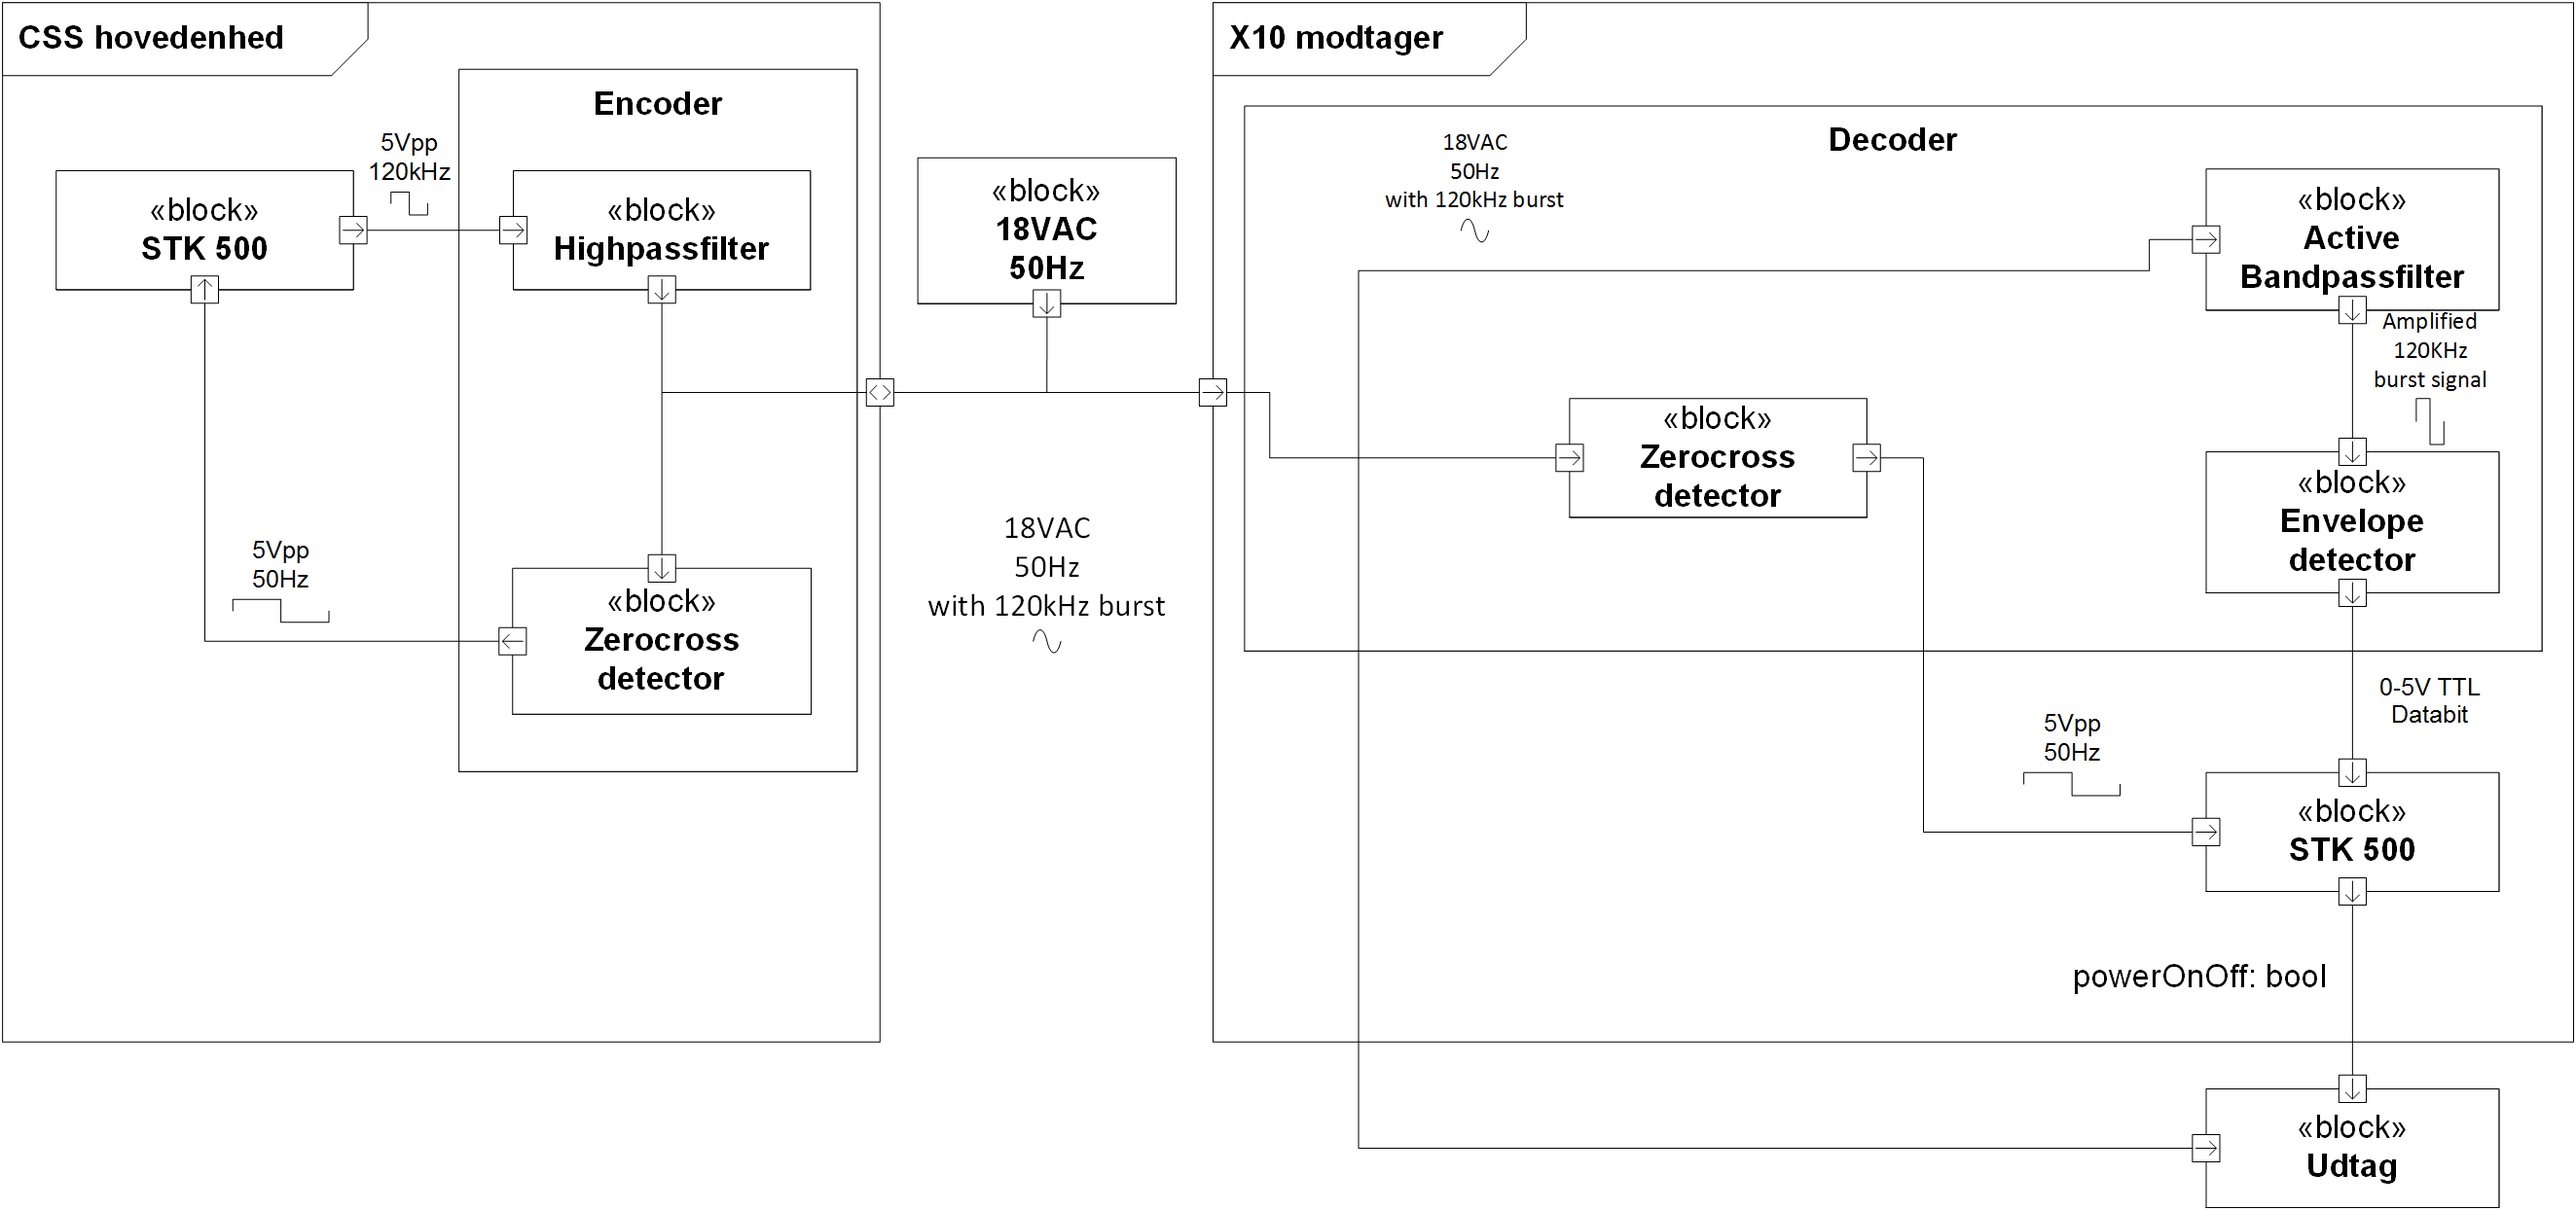
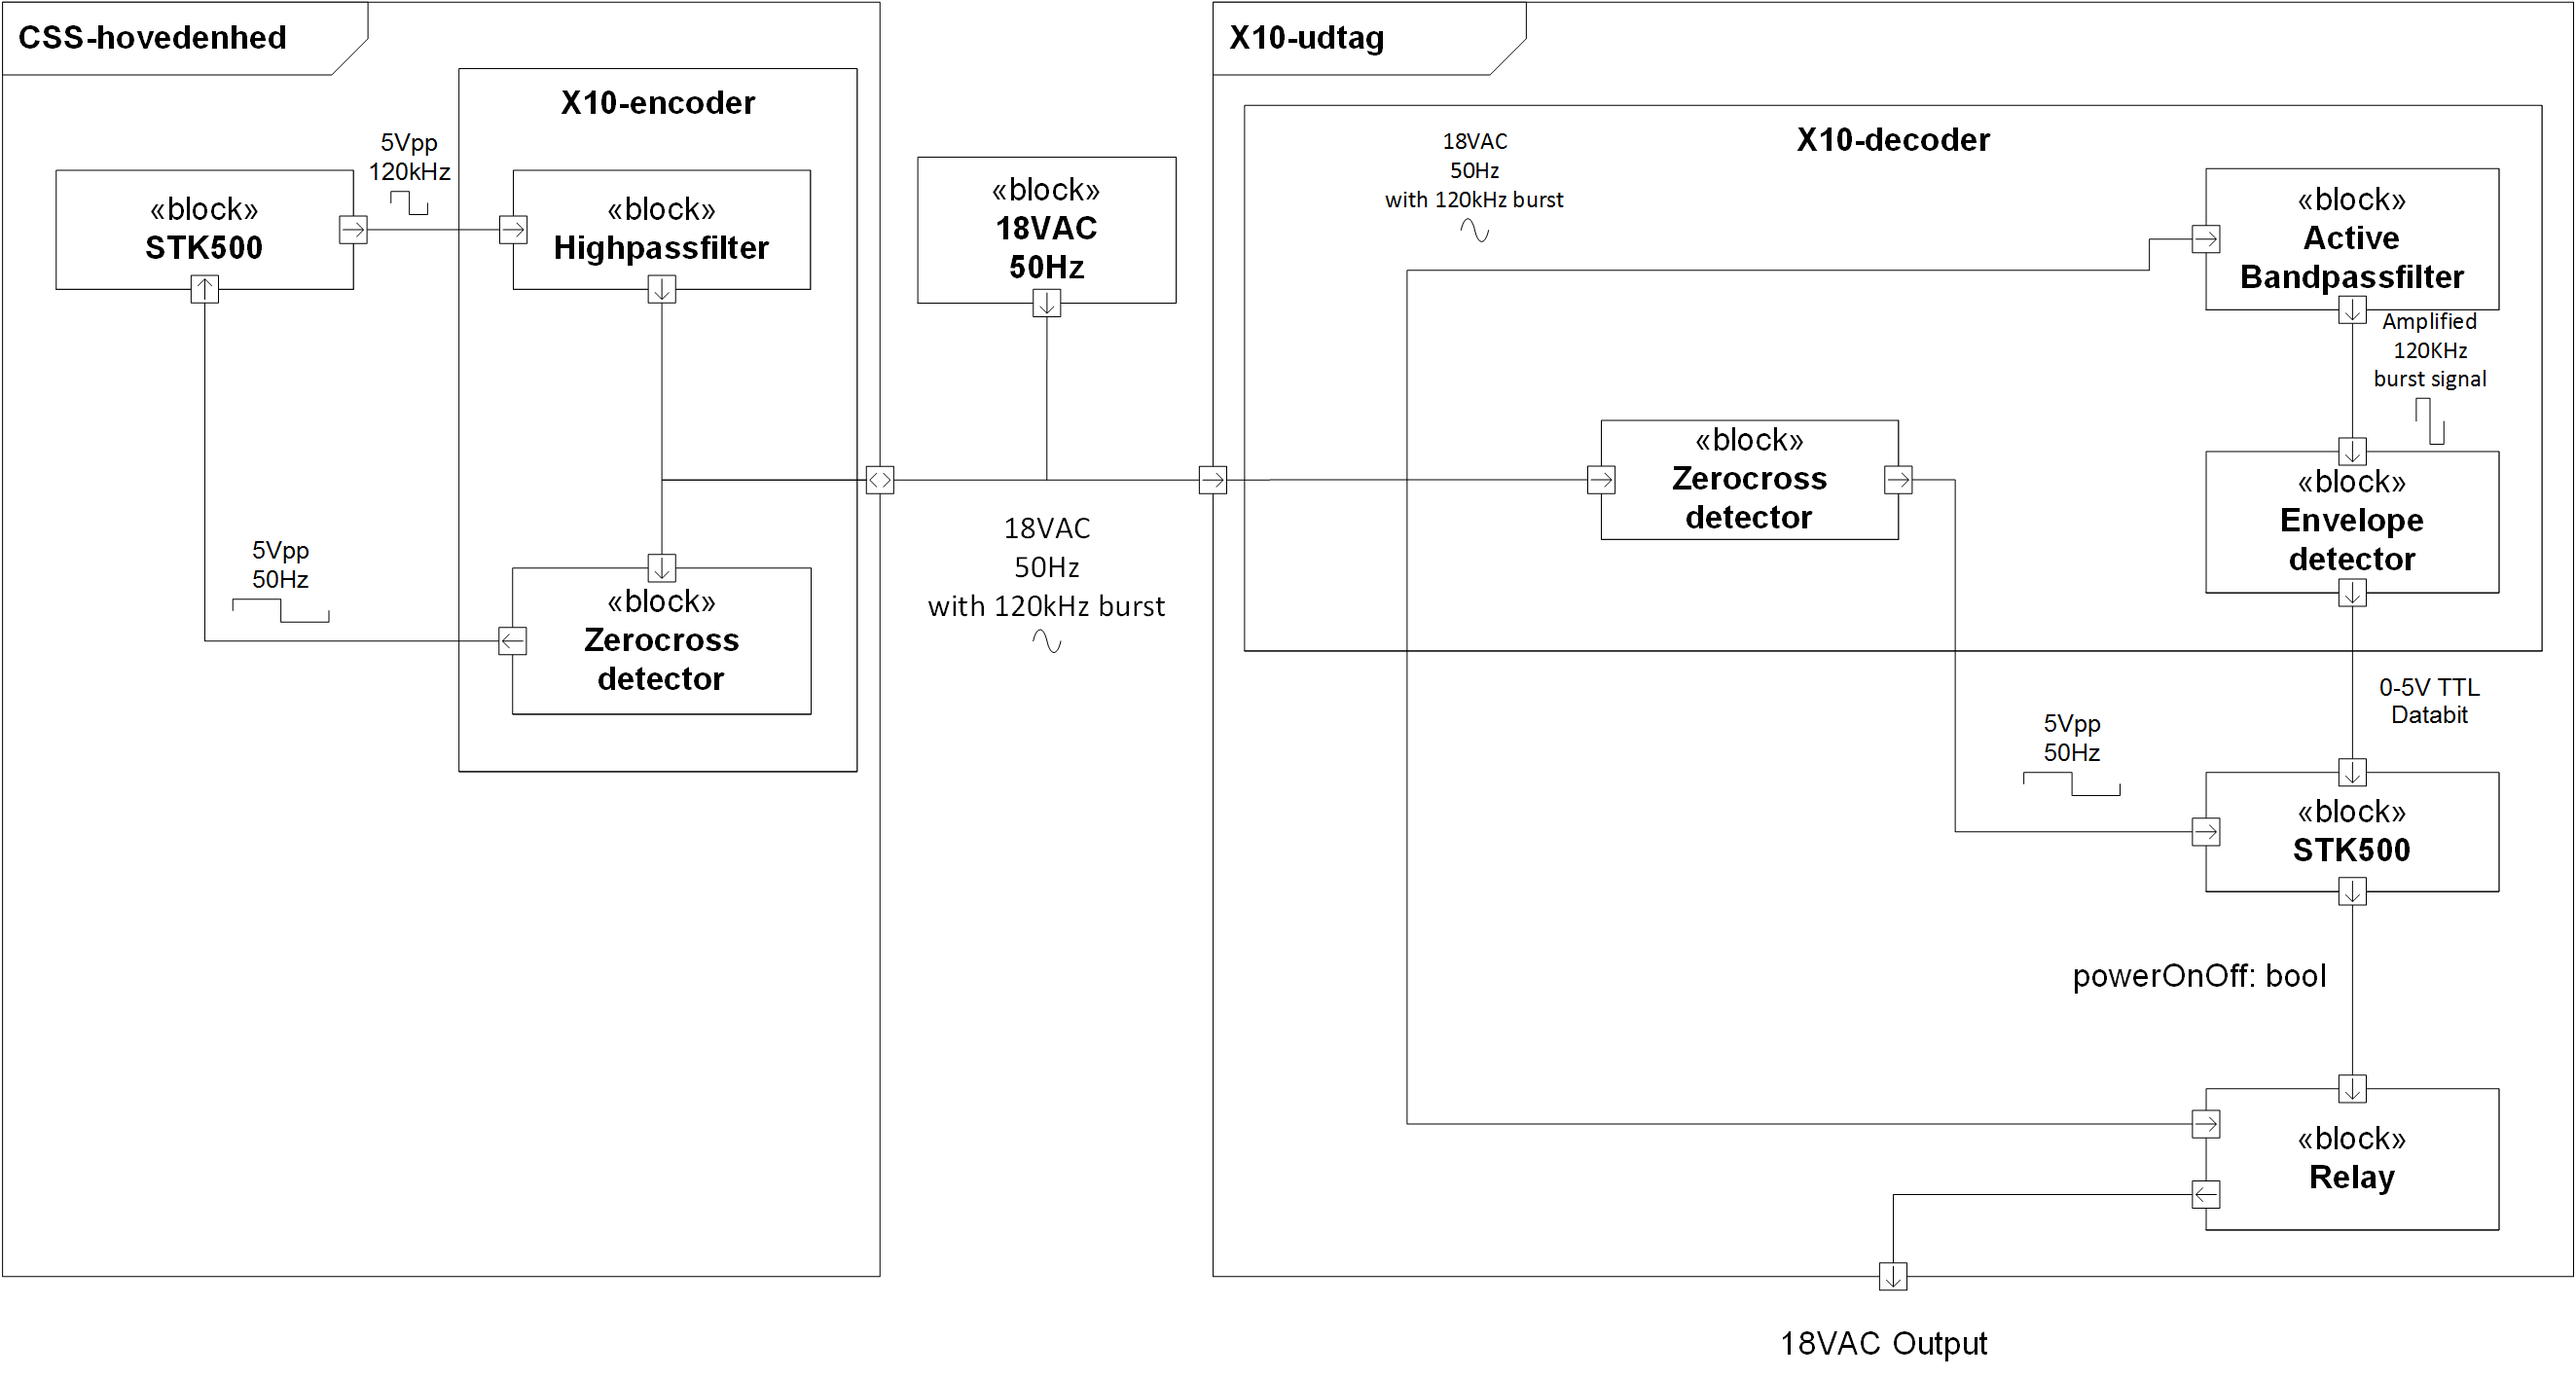
Rettelser til encoder/X10 udtag

diff --git a/Projektdokumentation/filer/HWdesign.tex b/Projektdokumentation/filer/HWdesign.tex
@@ -3,7 +3,7 @@ Generelt kan det overordnede hardware design beskrives som noget elektronik der 
 
 
 \section{X10-encoder}
-X10-encoderen, er den del af systemet der genererer X10-bitstrømmen og sender den ud på det eksisterende el-net. Et højpasfilter der lader 120 kHz burst passere mens det blokerer for nettets 50 Hz signal, udgør sammen med en zero crossing detector hele hardwaren for X10-encoderen.
+X10-encoderen, er en del af CSS hovedenheden. CSS hovedenheden genererer X10-bitstrømmen og sender den ud på det eksisterende el-net. Encoderen består af et højpasfilter der lader 120 kHz burst passere mens det blokerer for nettets 50 Hz signal, og en zero crossing detector der detekterer nulgennemgang.
 
 \begin{figure}[H]
 	\centering
@@ -62,7 +62,7 @@ Med den beregnede modstandsværdi er det endelige schematic færdigt som det ses
 
 \newpage
   
-\subsection{Zero Crossing Detector}
+\subsection{Zero Crossing Detector(SK)}
 \begin{figure}[htb]
   \begin{minipage}{0.45\textwidth}
     \centering
@@ -192,7 +192,7 @@ Med alle de beregnede komponentværdier kan det endelige schematic designes. Det
 
 \newpage
 
-\subsection{Envelope Detector}
+\subsection{Envelope Detector(SK)}
 
 \begin{figure}[htbp]
 	\centering
@@ -240,7 +240,7 @@ En åben kontakt vil give LAV(0V) og en lukket kontakt vil resultere i HØJ(5V)
 \end{figure}
 
 \newpage
-\subsection{Komponentliste}
+\subsection{Komponentliste (SK)}
 
 De efterfølgende tabeller viser en oversigt over hvilke komponenter der er anvendt, den beskriver navn, type og størrelse på hver enkelt komponent\footnote{Datablade for komponenterne kan findes i mappen "Datablade" på CD'en}. 
 

diff --git a/Projektrapport/filer/HWdesign.tex b/Projektrapport/filer/HWdesign.tex
@@ -5,7 +5,7 @@ Generelt kan det overordnede hardware design beskrives som noget elektronik der 
 
 
 \section{Encoder}
-Encoderen, også omtalt som senderenhed, er den del af systemet der genererer X10 kommandoen og sender den ud på det eksisterende el-net. Et højpasfilter der lader 120 kHz burst passere mens det blokerer for nettets 50 Hz signal, udgør sammen med en zero crossing detector hele hardwaren for encoderen.
+X10-encoderen, er en del af CSS hovedenheden. CSS hovedenheden genererer X10-bitstrømmen og sender den ud på det eksisterende el-net. Encoderen består af et højpasfilter der lader 120 kHz burst passere mens det blokerer for nettets 50 Hz signal, og en zero crossing detector der detekterer nulgennemgang.
 
 \begin{figure}[htbp]
 	\centering
@@ -51,7 +51,7 @@ Kondensatoren forudbestemmes for beregningerne til en værdi på 0,1 nF.
 
 \newpage
   
-\subsection{Zero Crossing Detector}
+\subsection{Zero Crossing Detector (SK)}
 \begin{figure}[htb]
   \begin{minipage}{0.45\textwidth}
     \centering
@@ -109,7 +109,7 @@ Båndpasfilteret har til opgave at filtrere alle signaler med frekvenser over og
 
 Da vi ønsker at forstærke 120 kHz signalet, designes højpasfilteret således at knækfrekvensen udregnes til 110 kHz, og for lavpasfilteret beregnes en knækfrekvens på 130 kHz.
 
-\subsection{Envelope Detector}
+\subsection{Envelope Detector (SK)}
 \begin{figure}[htbp]
 	\centering
 	\includegraphics[width=0.70\textwidth]{billeder/HWdesign/ED_MV.png}

diff --git a/Projektrapport/filer/systemarkitektur.tex b/Projektrapport/filer/systemarkitektur.tex
@@ -31,7 +31,7 @@ BDD diagrammet giver et overblik over hvad det samlede system består af. Vi ser
 \label{lab:Plantegning over HW}
 \raggedright
 \end{figure}
-Plantegningen over HW giver et overblik over hvordan CSS hovedenheden og X10 modtager er forbundet, samt hvilken type signaler der bliver sendt imellem dem.
+Plantegningen over HW giver et overblik over hvordan CSS hovedenheden og X10-udtaget er forbundet, samt hvilken type signaler der bliver sendt imellem dem.
 
 \clearpage
 
